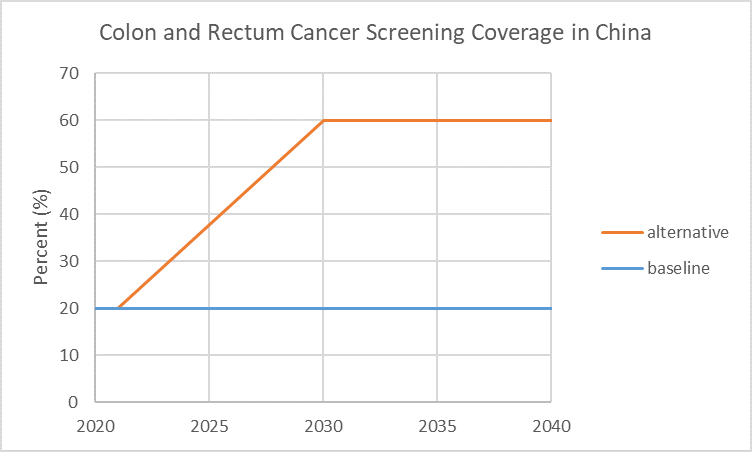
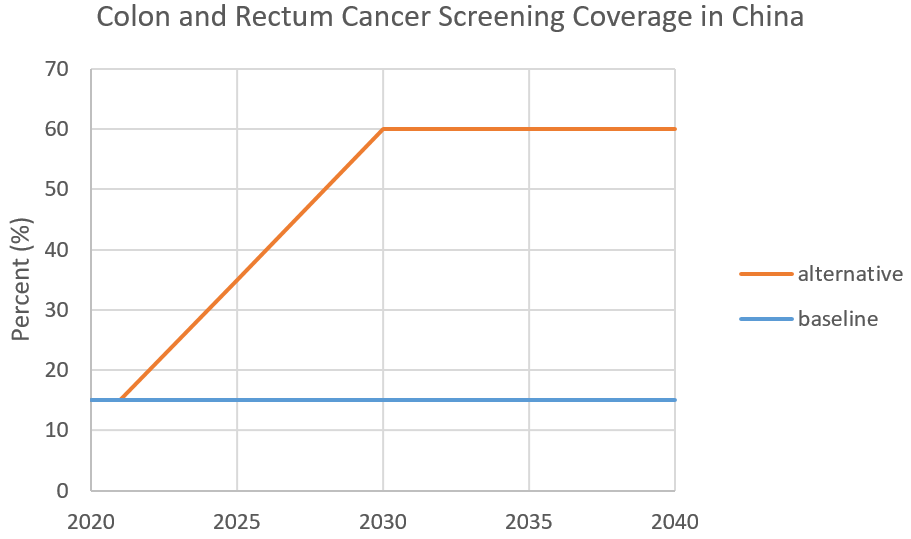
update external parameter distribution

Changed region(s): [[0.0, 0.2168, 0.7646, 0.8053], [0.0, 0.0, 1.0, 1.0], [0.0612, 0.0929, 0.734, 0.1858]]

diff --git a/docs/source/concept_models/vivarium_swissre_colorectalcancer/concept_model.rst b/docs/source/concept_models/vivarium_swissre_colorectalcancer/concept_model.rst
@@ -167,7 +167,7 @@ to cover 60% of women aged 50 to 74 years in 2030, then keep 60% coverage till
    * - Baseline
      - Colon and rectum cancer screening
      - 2020-2040
-     - 20%
+     - 15%
    * - Alternative
      - Colon and rectum cancer screening
      - 2020-2035
@@ -181,10 +181,14 @@ to cover 60% of women aged 50 to 74 years in 2030, then keep 60% coverage till
 .. note::
 
  - Lin et al. reported an uptake rate of 15.4% for colorectal cancer screening 
-   among Chinese adults in Guangzhou. In this study, the screening update rate 
-   varies by age and sex, but less likely associated with residence of urban and 
-   rual. Temporarily, let's use 20% as baseline screening coverage across all 
-   ages and sexes for SwissRe's insured population.
+   among Chinese adults between 50 and 74 years living in Guangzhou. In this 
+   study, the screening update rate varies by age and sex, but less likely 
+   associated with residence of urban and rual. Notice that the true screening 
+   coverage may be lower among general population as compared with coverage among 
+   eligible population. We assume that the screening coverage reported among eligible 
+   population is similar to coverage among insured population. Hence, we use 15% 
+   as baseline screening coverage across all ages and sexes for SwissRe's insured 
+   population.
  - We assume that the screenig uptake rate in China is 20 years behind the US; 
    therefore, we will use the documented number in 2010 among US general 
    population to determine the target screening coverage in China. In 2008, 
@@ -432,11 +436,30 @@ for simulants at any age above 65.
 GBD risk factors: N/A
 
 Non-GBD risk factor 1: Family history of colon and rectum cancer
- - prevalence: 3-10%
- - relative risk:  1.76 (95%CI 1.57-1.97)
+ - prevalence: In a systematic review with 9 studies conducted in multiple 
+   locations (Japan and other western countries), the prevalence of having 
+   at least one first-degree relative (FDR) with CRC was estimated between 
+   3.1 and 10%. (Henrikson et al. 2015)
+ - relative risk: A meta-analysis which includes 63 studies documneted that 
+   family history of CRC in FDR confers a higher risk of CRC (RR = 1.76, 95%CI 
+   = 1.57‐1.97). Another pooled risk estimate (47 studies were included) was 
+   2.24 (95%CI 2.06-2.43) for developing CRC among given at least one affected 
+   first-degree relative. (Wong et al. 2018 and Butterworth et al. 2006) 
+
 Non-GBD risk factor 2: Personal history of adenoma 
- - prevalence: TBD
- - relative risk:  2.7 (95%CI, 1.9-3.7)
+ - prevalence: In a cross-sectional study of 19,372 participants aged 20 to 79 
+   years underwent colonoscopy in Korea from 2006-2009, the prevalence of 
+   advanced adenoma were found to be 3.1% in men and 1.5% in women among 
+   participants at average risk, those without a history of colorectal polyps 
+   or a family history of colorectal cancer. (Yang et al. 2014) 
+ - relative risk: For the association between adenoma and colorectal cancer
+   incidence, I found a prospetive cohort study that focus on participants aged 
+   55-74 years in the Prostate, Lung, Colorectal, and Ovarian (PLCO) Cancer 
+   randomized clinical trial of flexible sigmoidoscopy (FSG) beginning in 
+   1993 with follow-up for CRC incidence to 2013 across the United States. 
+   Through the end of follow-up, participants with advanced adenoma were 
+   2.7 (95%CI, 1.9-3.7) more likely to develop CRC compared with participants 
+   with no adenoma. (Click et al. 2018)
 
 To joint model family history of CRC (F) and personal history of adenoma (A), 
 we decided to create a dichtomous exposure distribution with 2 categories: 
@@ -450,8 +473,8 @@ means you don't have A nor F.
      - Prevalence
      - Relative risk
    * - Exposed (cat1)
-     - stand-in value: 10%
-     - stand-in value: 2.3
+     - normal distribution: normal(mean=0.05, SD=0.005)
+     - Log-normal distribution: exp(normal(mean=log(2.4), SD=0.21))
    * - Unexposed (cat2)
      - 1 - prevalence_{exposed}
      - 1
@@ -461,10 +484,14 @@ Relevant formulas
  2. :math:`i_{PC|exposed} =  i_{PC} \times (1-PAF) \times RR`
  3. :math:`i_{PC|unexposed} =  i_{PC} \times (1-PAF)`
 
-.. todo::
+.. note::
 
- 1. Describe the literature findings
- 2. Fill-in proper distributions for combined risk factors
+ The uncertainty interval of RR combining family history and adenoma was derived 
+ from the extremes of reported numbers. To be precise, we use min(RR_family_history_lower, 
+ RR_adenoma_lower) and max(RR_family_history_upper, RR_adenoma_upper) as the 
+ lower and upper bound of our distribution. Based on the literatures we have 
+ identified, we assume the prevalence of having family history of CRC or personal 
+ history of adenoma remains low in China, roughly between 4-6%.
 
 .. _5.4:
 
@@ -479,49 +506,43 @@ Relevant formulas
      - Source
      - Note
    * - MST
-     - 4.5-5.8 years
+     - 4.5-5.8 years depending on age
      - [Brenner-et-al-2012]_
-     - 
+     - Let's use a MST of 5 years for all ages.
    * - Colon and rectum cancer screening coverage in baseline
-     - 20%
+     - 15%
      - [lin-et-al-2019]_
      - 
    * - Colon and rectum cancer screening covearge in alternative scenario
      - scale up to 60% in 2030
      - [de-Moor-et-al-2018]_
-     - We applied 20-year lag on US coverage
+     - We applied a 20-year lag on US coverage.
    * - FOBT sensitivity
      - 68% (95%CI 57%-79%)
      - [Meklin-et-al-2020]_
-     - We documented the sensitivity of gFOBT
+     - Normal distribution with mean=0.68 and std_dev=0.056
    * - FOBT specificity
      - 88% (95%CI 84%-91%)
      - [Meklin-et-al-2020]_
-     - We documented the specificity of gFOBT
+     - Normal distribution with mean=0.88 and std_dev=0.018
    * - Colonoscopy sensitivity
      - 98% (95%CI 91%-100%)
      - [Rockey-et-al-2005]_
-     - 
+     - Triangular distribution with left=0.90, mode=0.98, and right=1.00
    * - Colonoscopy specificity
      - 100%
      - 
      - by client’s assumption (no false positive results of screening)
-   * - Prevalence of family history of colon and rectum cancer
-     - 3-10%
-     - [Henrikson0-et-al-2015]_
-     - 
-   * - Relative risk of family history of colon and rectum cancer
-     - 1.76 (95%CI 1.57-1.97)
-     - [Wong-et-al-2018]_
-     - 
-   * - Prevalence of personal history of adenoma
-     - 
-     - 
-     - 
-   * - Relative risk of personal history of adenoma
-     - 2.7 (95%CI, 1.9-3.7)
-     - [Click-et-al-2018]_
-     - 
+   * - Prevalence of having family history of CRC or personal history of 
+       adenoma, or both
+     - Normal distribution with mean=0.05 and std_dev=0.005
+     - [Henrikson-et-al-2015]_ and [Yang-et-al-2014]_
+     - We assume prevalence is independent from age and sex
+   * - Relative risk of family history of CRC, or personal history of adenoma, 
+       or both causing colorectal cancer
+     - exp(normal(mean=log(2.4), SD=0.21))
+     - [Butterworth-et-al-2006]_, [Wong-et-al-2018]_, and [Click-et-al-2018]_ 
+     - We assume RR is independent from age and sex.
 
 .. _5.5:
 
@@ -594,6 +615,44 @@ TBD
 8.0 References
 ++++++++++++++
 
-.. todo::
-
- add cited works
+.. [Brenner-et-al-2012]
+   Brenner H, Altenhofen L, Katalinic A, Lansdorp-Vogelaar I, Hoffmeister M. 
+   Sojourn time of preclinical colorectal cancer by sex and age: estimates from 
+   the German national screening colonoscopy database. Am J Epidemiol 2011; 174: 
+   1140–6.
+.. [lin-et-al-2019]
+   Lin G, Feng Z, Liu H, et al. Mass screening for colorectal cancer in a 
+   population of two million older adults in Guangzhou, China. Sci Rep 2019; 9: 
+   10424.
+.. [de-Moor-et-al-2018]
+   de Moor JS, Cohen RA, Shapiro JA, et al. Colorectal cancer screening in the 
+   United States: Trends from 2008 to 2015 and variation by health insurance 
+   coverage. Prev Med 2018; 112: 199–206.
+.. [Meklin-et-al-2020]
+   Meklin J, SyrjÄnen K, Eskelinen M. Fecal Occult Blood Tests in Colorectal 
+   Cancer Screening: Systematic Review and Meta-analysis of Traditional and 
+   New-generation Fecal Immunochemical Tests. Anticancer Res 2020; 40: 3591–604.
+.. [Rockey-et-al-2005]
+   Rockey DC, Paulson E, Niedzwiecki D, et al. Analysis of air contrast barium 
+   enema, computed tomographic colonography, and colonoscopy: prospective 
+   comparison. Lancet 2005; 365: 305–11.
+.. [Henrikson-et-al-2015]
+   Henrikson NB, Webber EM, Goddard KA, et al. Family history and the natural 
+   history of colorectal cancer: systematic review. Genet Med 2015; 17: 702–12.
+.. [Yang-et-al-2014]
+   Yang MH, Rampal S, Sung J, et al. The Prevalence of Colorectal Adenomas in 
+   Asymptomatic Korean Men and Women. Cancer Epidemiol Biomarkers Prev 2014; 
+   23: 499–507.
+.. [Butterworth-et-al-2006]
+   Butterworth AS, Higgins JPT, Pharoah P. Relative and absolute risk of 
+   colorectal cancer for individuals with a family history: a meta-analysis. 
+   Eur J Cancer 2006; 42: 216–27.
+.. [Wong-et-al-2018]
+   Wong MCS, Chan CH, Lin J, et al. Lower Relative Contribution of Positive 
+   Family History to Colorectal Cancer Risk with Increasing Age: A Systematic 
+   Review and Meta-Analysis of 9.28 Million Individuals. Am J Gastroenterol 
+   2018; 113: 1819–27.
+.. [Click-et-al-2018]
+   Click B, Pinsky PF, Hickey T, Doroudi M, Schoen RE. Association of Colonoscopy 
+   Adenoma Findings With Long-term Colorectal Cancer Incidence. JAMA 2018; 319: 
+   2021–31.

diff --git a/docs/source/gbd2017_models/causes/neoplasms/colon_and_rectum_cancer/cancer_model.rst b/docs/source/gbd2017_models/causes/neoplasms/colon_and_rectum_cancer/cancer_model.rst
@@ -235,13 +235,13 @@ State and Transition Data Tables
      - Notes
    * - prev_c441
      - forecasted for future years 2020-2040
-     - forcasted data filepath: /ihme/costeffectiveness/vivarium_csu_cancer
+     - forcasted data filepath: /ihme/csu/swiss_re/forecast/441_prevalence_12_29_ng_smooth_13.csv
    * - incidence_c441
      - forecasted for future years 2020-2040
-     - forcasted data filepath: /ihme/costeffectiveness/vivarium_csu_cancer
+     - forcasted data filepath: /ihme/csu/swiss_re/forecast/441_incidence_12_29_ng_smooth_13.csv
    * - csmr_c441
      - forecasted for future years 2020-2040
-     - forcasted data filepath: /ihme/costeffectiveness/vivarium_csu_cancer
+     - forcasted data filepath: /ihme/csu/swiss_re/forecast/441_deaths_12_29_ng_smooth_13.csv
    * - remission_c441
      - GBD 2017
      - remission rate of cervical cancer = 0.1 per person-years for all ages 
@@ -252,7 +252,7 @@ State and Transition Data Tables
        sequelae with ids s_296, s_298, s_299, s_5519, s_5522, s_5525
    * - ACMR
      - forecasted for future years 2020-2040 
-     - forcasted data filepath: /ihme/costeffectiveness/vivarium_csu_cancer
+     - forcasted data filepath: /ihme/csu/swiss_re/forecast/294_deaths_12_29_ng_smooth_13.csv
    * - Population
      - demography for 2017 
      - mid-year population
